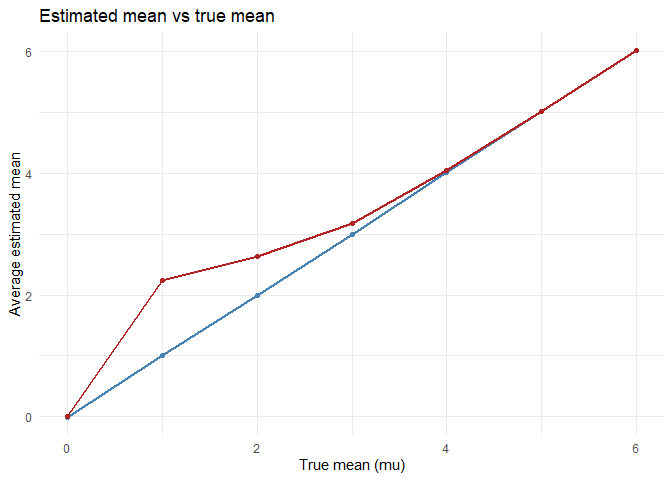
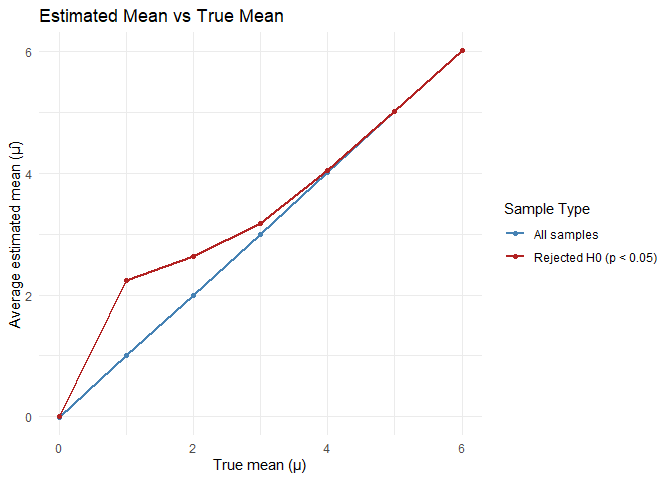
Complete Q2 and add comments

diff --git a/p8105_hw5_wl3013.md b/p8105_hw5_wl3013.md
@@ -41,11 +41,12 @@ plot(
 )
 ```
 
-![](p8105_hw5_wl3013_files/figure-gfm/unnamed-chunk-1-1.png)<!-- --> The
-probability plot shows a smoothly increasing “S” line, indicating that
-when the group size grows, the probability of at least two people share
-a birthday also grows. When the group size close to the the maximum
-group size (n=50), the probability close to 1.
+![](p8105_hw5_wl3013_files/figure-gfm/unnamed-chunk-1-1.png)<!-- -->
+
+The probability plot shows a smoothly increasing “S” line, indicating
+that when the group size grows, the probability of at least two people
+share a birthday also grows. When the group size close to the the
+maximum group size (n=50), the probability close to 1.
 
 ## Problem 2
 
@@ -110,7 +111,11 @@ ggplot(power_df, aes(x = mu_true, y = power)) +
 ```
 
 ![](p8105_hw5_wl3013_files/figure-gfm/unnamed-chunk-3-1.png)<!-- -->
-comments:
+
+The plot shows that statistical power increases as the true mean moves
+further from 0. When the effect size is small (mu near 0), the t-test
+rarely rejects the null hypothesis. As mu increases, the probability of
+detecting a true difference rises sharply, approaching 1 when mu ≥ 5.
 
 ### Create plot 2
 
@@ -130,17 +135,31 @@ avg_reject <- all_res |>
 avg_df <- left_join(avg_all, avg_reject, by = "mu_true")
 
 ggplot(avg_df, aes(x = mu_true)) +
-  geom_line(aes(y = mu_hat_avg), color = "steelblue", linewidth = 1) +
-  geom_point(aes(y = mu_hat_avg), color = "steelblue") +
-  geom_line(aes(y = mu_hat_reject_avg), color = "firebrick", linewidth = 1) +
-  geom_point(aes(y = mu_hat_reject_avg), color = "firebrick") +
+  geom_line(aes(y = mu_hat_avg, color = "All samples"), linewidth = 1) +
+  geom_point(aes(y = mu_hat_avg, color = "All samples")) +
+  geom_line(aes(y = mu_hat_reject_avg, color = "Rejected H0 (p < 0.05)"), linewidth = 1) +
+  geom_point(aes(y = mu_hat_reject_avg, color = "Rejected H0 (p < 0.05)")) +
   labs(
-    x = "True mean (mu)",
-    y = "Average estimated mean",
-    title = "Estimated mean vs true mean"
+    x = "True mean (μ)",
+    y = "Average estimated mean (μ̂)",
+    title = "Estimated Mean vs True Mean",
+    color = "Sample Type"
   ) +
-  theme_minimal()
+  theme_minimal() +
+  scale_color_manual(values = c("All samples" = "steelblue",
+                                "Rejected H0 (p < 0.05)" = "firebrick"))
 ```
 
 ![](p8105_hw5_wl3013_files/figure-gfm/unnamed-chunk-4-1.png)<!-- -->
-comments:
+
+The blue line represents the average estimated mean across all samples,
+which closely matches the true mean, showing that the estimator is
+unbiased overall. The red line represents the only among samples where
+the null was rejected (p \< 0.05). These estimates are systematically
+higher than the true mu, reflecting selection bias. Which means
+significant results tend to come from samples where random variation
+exaggerated the effect. Besides, the difference between the two curves
+is largest when power is low (small mu), because only extreme positive
+samples yield significant results. As mu increases and the test becomes
+more powerful, nearly all samples reject H0, reducing selection bias and
+bringing the two averages closer together.
